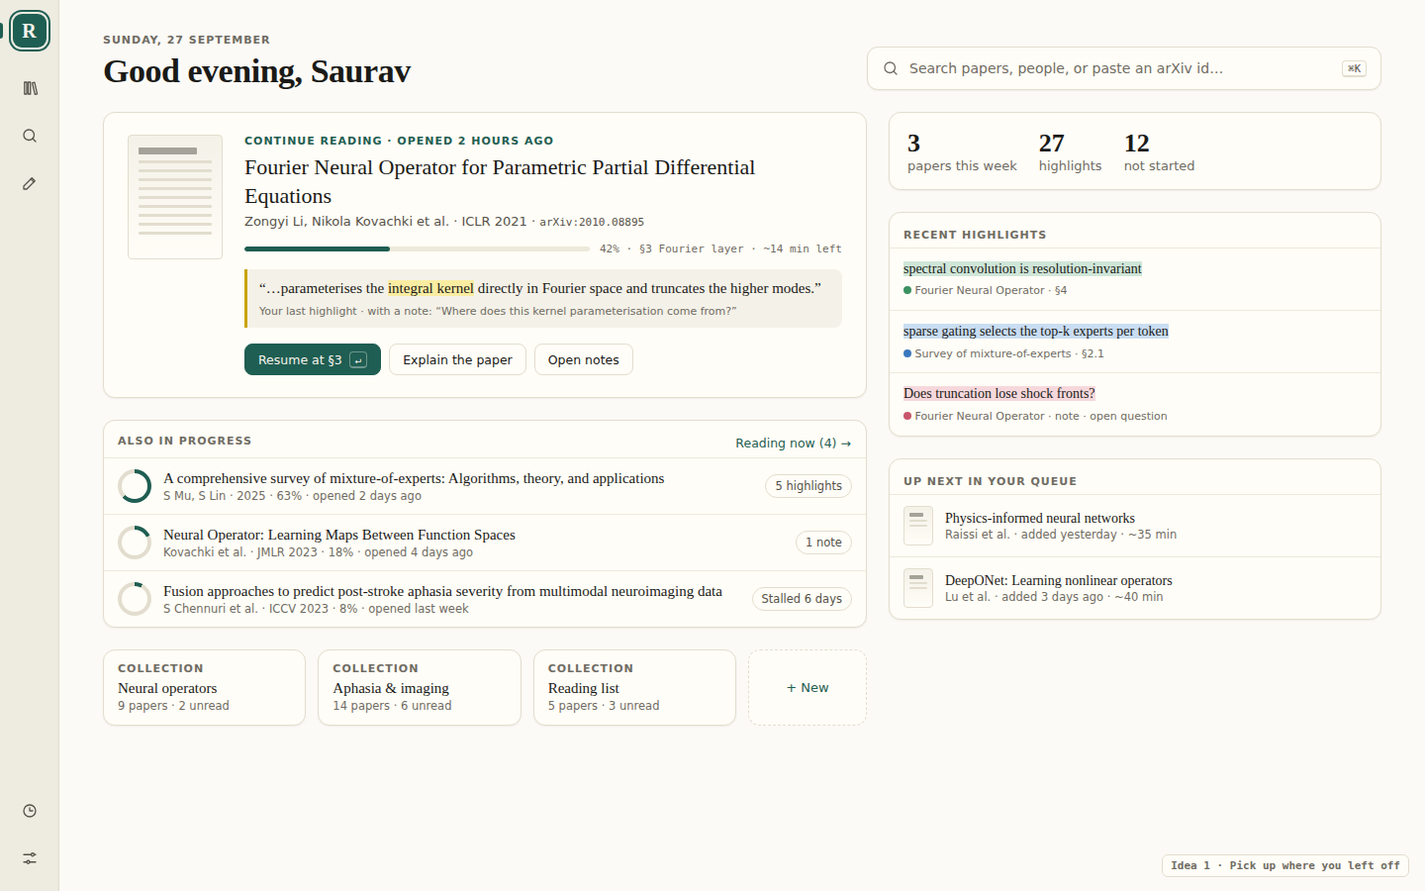
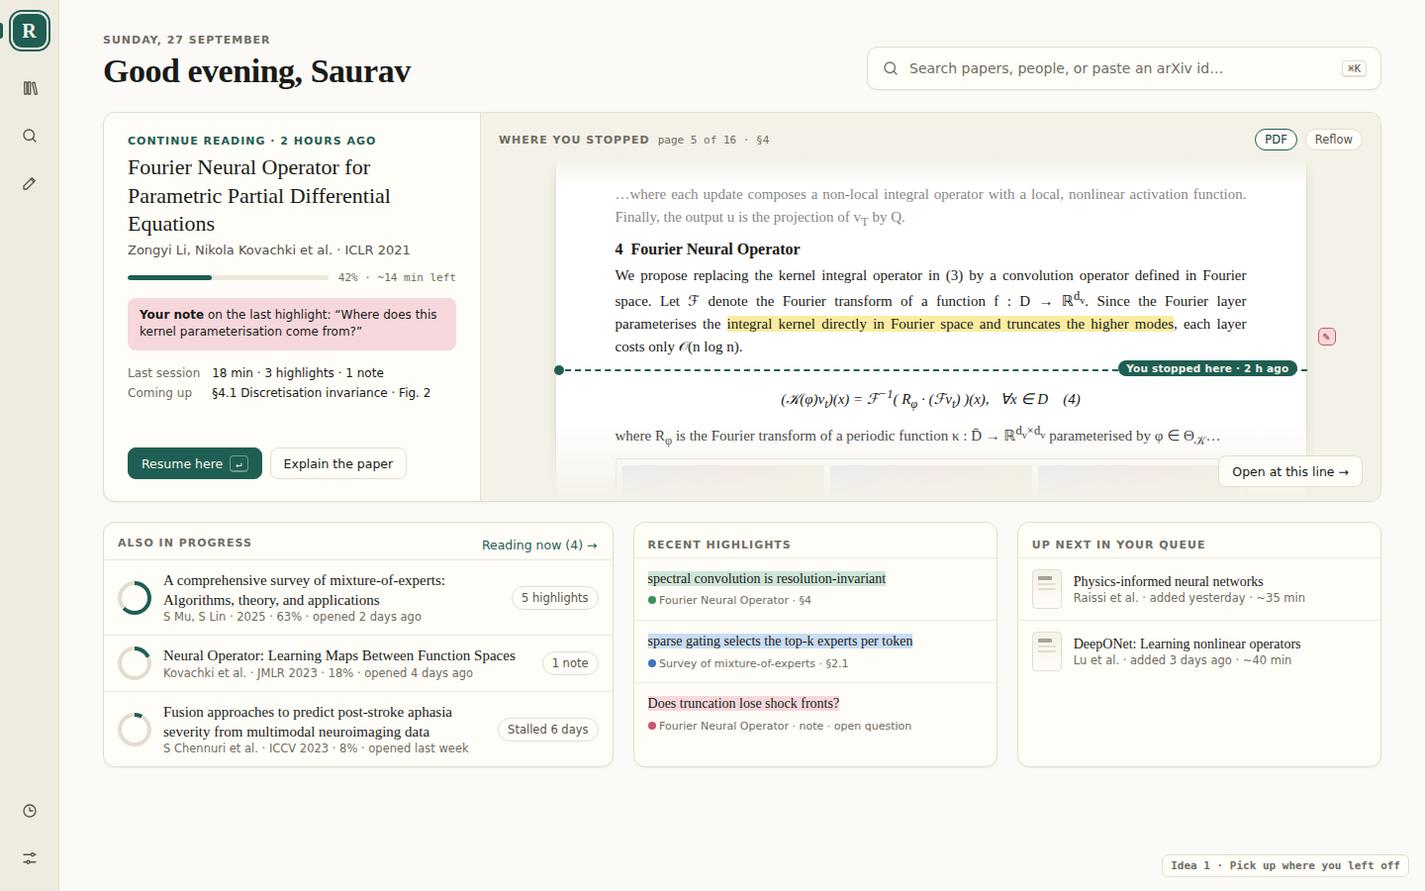
Landing ideas: show the page you stopped on in the continue-reading card
Home's first card now spans the page and previews the paper where it was
left — the real page, a "You stopped here" line, the last highlight and
its note — with how it would be built: a reading anchor, a snapshot on
leave, then a live pdf.js render.

Claude-Session: https://claude.ai/code/session_01GpdQYx1fE5DJU2tELgjumX

diff --git a/docs/mockups/landing-src/1b-continue-dark.html b/docs/mockups/landing-src/1b-continue-dark.html
@@ -1,9 +1,30 @@
 <!doctype html><html data-theme="dark"><head><meta charset="utf-8"><link rel="stylesheet" href="shared.css">
 <style>
-.grid{display:grid;grid-template-columns:1.55fr 1fr;gap:22px;margin-top:22px}
-.hero{padding:22px 24px;display:flex;gap:22px}
-.hero .cover{width:96px;height:126px;padding:12px 10px;gap:6px}
-.hero .cover i{height:3px}.hero .cover i:first-child{height:7px}
+.grid{display:grid;grid-template-columns:1.4fr 1fr 1fr;gap:20px;margin-top:22px}
+.hero{padding:0;display:grid;grid-template-columns:380px 1fr;overflow:hidden;grid-column:1/-1}
+.meta{padding:22px 24px;display:flex;flex-direction:column}
+.peek{position:relative;background:var(--panel);border-left:1px solid var(--border);padding:16px 18px 0;height:392px;overflow:hidden}
+.peek .bar-top{display:flex;align-items:center;gap:8px;margin-bottom:10px}
+.page{background:#fff;color:#1a1a17;border:1px solid var(--border);border-radius:3px 3px 0 0;box-shadow:0 2px 10px rgba(26,26,23,.10);padding:22px 60px;font-family:'Times New Roman',Times,var(--serif);font-size:15px;line-height:1.55;height:100%;position:relative;max-width:760px;margin:0 auto}
+.page h4{font:700 16px 'Times New Roman',Times,serif;margin:0 0 6px}
+.page p{margin:0 0 8px;text-align:justify;hyphens:auto}
+.page .eq{text-align:center;font-style:italic;margin:6px 0 8px}
+.page .fig{height:54px;border:1px solid #ddd;border-radius:2px;display:flex;gap:6px;padding:6px;margin:4px 0 8px}
+.page .fig i{flex:1;border-radius:2px;background:linear-gradient(135deg,#dbe8f3,#f3dfe4 45%,#e9f1dc)}
+.page .past{opacity:.55}
+.hlp{background:#faeda2}
+.stop{position:relative;margin:10px -61px 12px;height:0;border-top:2px dashed var(--accent)}
+.stop span{position:absolute;right:10px;top:-11px;background:var(--accent);color:var(--accent-on);font:600 10.5px var(--sans);padding:2px 8px;border-radius:999px;letter-spacing:.02em}
+.stop::before{content:'';position:absolute;left:-1px;top:-6px;width:10px;height:10px;border-radius:50%;background:var(--accent)}
+.pin{position:absolute;right:-30px;width:18px;height:18px;border-radius:5px;background:#f6d8dc;border:1px solid #c9566c;display:grid;place-items:center;font:600 10px var(--sans);color:#8f2f2f}
+.fade{position:absolute;left:0;right:0;bottom:0;height:80px;background:linear-gradient(transparent,var(--panel))}
+.fadetop{position:absolute;left:0;right:0;top:44px;height:30px;background:linear-gradient(var(--panel),transparent);z-index:1}
+.peek .open{position:absolute;right:18px;bottom:14px;z-index:2}
+:root[data-theme=dark] .page{background:#23252b;color:#dcd8ce;border-color:var(--border)}
+:root[data-theme=dark] .hlp{background:rgba(246,226,122,.3)}
+:root[data-theme=dark] .page .fig{border-color:#3a3d45}
+:root[data-theme=dark] .page .fig i{opacity:.35}
+.note{margin:14px 0 16px;padding:9px 12px;border-radius:8px;background:var(--hl-pink);font-size:12px;line-height:1.45}
 .snip{border-left:3px solid var(--ul-yellow);padding:8px 12px;margin:14px 0 16px;font-family:var(--serif);font-size:15px;line-height:1.5;background:var(--panel);border-radius:0 8px 8px 0}
 .row{display:flex;align-items:center;gap:12px;padding:11px 14px;border-top:1px solid var(--border-soft)}
 .row:first-child{border-top:0}
@@ -21,38 +42,43 @@
 </div>
 
 <div class="grid">
- <div style="display:flex;flex-direction:column;gap:22px">
   <section class="card hero">
-   <div class="cover"><i></i><i></i><i></i><i></i><i></i><i></i><i></i><i></i><i></i><i></i></div>
-   <div style="flex:1;min-width:0">
-    <div class="eyebrow" style="color:var(--accent)">Continue reading · opened 2 hours ago</div>
+   <div class="meta">
+    <div class="eyebrow" style="color:var(--accent)">Continue reading · 2 hours ago</div>
     <div class="ptitle" style="font-size:22px;margin-top:6px">Fourier Neural Operator for Parametric Partial Differential Equations</div>
-    <div class="ink2" style="margin-top:4px">Zongyi Li, Nikola Kovachki et al. · ICLR 2021 · <span class="mono">arXiv:2010.08895</span></div>
-    <div style="display:flex;align-items:center;gap:10px;margin-top:14px"><div class="bar" style="flex:1"><i style="width:42%"></i></div><span class="mono muted">42% · §3 Fourier layer · ~14 min left</span></div>
-    <div class="snip">“…parameterises the <span class="hl-y">integral kernel</span> directly in Fourier space and truncates the higher modes.”<div style="font-family:var(--sans);font-size:11px;color:var(--muted);margin-top:4px">Your last highlight · with a note: “Where does this kernel parameterisation come from?”</div></div>
-    <div style="display:flex;gap:8px"><span class="btn primary">Resume at §3 <kbd style="background:transparent;color:var(--accent-on);border-color:rgba(255,255,255,.35)">↵</kbd></span><span class="btn">Explain the paper</span><span class="btn">Open notes</span></div>
+    <div class="ink2" style="margin-top:4px">Zongyi Li, Nikola Kovachki et al. · ICLR 2021</div>
+    <div style="display:flex;align-items:center;gap:10px;margin-top:14px"><div class="bar" style="flex:1"><i style="width:42%"></i></div><span class="mono muted">42% · ~14 min left</span></div>
+    <div class="note"><b>Your note</b> on the last highlight: “Where does this kernel parameterisation come from?”</div>
+    <div style="display:grid;grid-template-columns:auto 1fr;gap:6px 12px;font-size:12px;margin-bottom:16px">
+     <span class="muted">Last session</span><span>18 min · 3 highlights · 1 note</span>
+     <span class="muted">Coming up</span><span>§4.1 Discretisation invariance · Fig. 2</span>
+    </div>
+    <div style="flex:1"></div>
+    <div style="display:flex;gap:8px;flex-wrap:wrap"><span class="btn primary">Resume here <kbd style="background:transparent;color:var(--accent-on);border-color:rgba(255,255,255,.35)">↵</kbd></span><span class="btn">Explain the paper</span></div>
+   </div>
+   <div class="peek">
+    <div class="bar-top"><span class="eyebrow">Where you stopped</span><span class="mono muted">page 5 of 16 · §4</span><span style="flex:1"></span><span class="chip" style="height:22px;background:var(--surface);color:var(--accent-ink);border-color:var(--accent)">PDF</span><span class="chip" style="height:22px">Reflow</span></div>
+    <div class="fadetop"></div>
+    <div class="page">
+     <p class="past">…where each update composes a non-local integral operator with a local, nonlinear activation function. Finally, the output u is the projection of v<sub>T</sub> by Q.</p>
+     <h4>4 &nbsp;Fourier Neural Operator</h4>
+     <p>We propose replacing the kernel integral operator in (3) by a convolution operator defined in Fourier space. Let ℱ denote the Fourier transform of a function f : D → ℝ<sup>d<sub>v</sub></sup>. Since the Fourier layer parameterises the <span class="hlp">integral kernel directly in Fourier space and truncates the higher modes</span>, each layer costs only 𝒪(n log n).<span class="pin" style="top:168px" title="your note">✎</span></p>
+     <div class="stop"><span>You stopped here · 2 h ago</span></div>
+     
+     
+     <div class="eq" style="margin-top:14px">(𝒦(φ)v<sub>t</sub>)(x) = ℱ<sup>−1</sup>( R<sub>φ</sub> · (ℱv<sub>t</sub>) )(x), &nbsp; ∀x ∈ D &nbsp;&nbsp;&nbsp;(4)</div>
+     <p>where R<sub>φ</sub> is the Fourier transform of a periodic function κ : D̄ → ℝ<sup>d<sub>v</sub>×d<sub>v</sub></sup> parameterised by φ ∈ Θ<sub>𝒦</sub>…</p>
+     <div class="fig"><i></i><i></i><i></i></div>
+    </div>
+    <div class="fade"></div>
+    <span class="btn open" style="background:var(--surface)">Open at this line →</span>
    </div>
   </section>
-
   <section class="card">
    <div style="display:flex;justify-content:space-between;padding:14px 14px 6px"><span class="eyebrow">Also in progress</span><span class="btn ghost" style="height:auto;padding:0">Reading now (4) →</span></div>
    <div class="row"><div class="ring" style="--p:.63"></div><div style="flex:1"><div class="ptitle">A comprehensive survey of mixture-of-experts: Algorithms, theory, and applications</div><div class="muted" style="font-size:11.5px">S Mu, S Lin · 2025 · 63% · opened 2 days ago</div></div><span class="chip">5 highlights</span></div>
    <div class="row"><div class="ring" style="--p:.18"></div><div style="flex:1"><div class="ptitle">Neural Operator: Learning Maps Between Function Spaces</div><div class="muted" style="font-size:11.5px">Kovachki et al. · JMLR 2023 · 18% · opened 4 days ago</div></div><span class="chip">1 note</span></div>
    <div class="row"><div class="ring" style="--p:.08"></div><div style="flex:1"><div class="ptitle">Fusion approaches to predict post-stroke aphasia severity from multimodal neuroimaging data</div><div class="muted" style="font-size:11.5px">S Chennuri et al. · ICCV 2023 · 8% · opened last week</div></div><span class="chip">Stalled 6 days</span></div>
-  </section>
-  <section style="display:flex;gap:12px">
-   <div class="card" style="flex:1;padding:12px 14px"><div class="eyebrow">Collection</div><div class="ptitle" style="margin-top:4px">Neural operators</div><div class="muted" style="font-size:11.5px">9 papers · 2 unread</div></div>
-   <div class="card" style="flex:1;padding:12px 14px"><div class="eyebrow">Collection</div><div class="ptitle" style="margin-top:4px">Aphasia &amp; imaging</div><div class="muted" style="font-size:11.5px">14 papers · 6 unread</div></div>
-   <div class="card" style="flex:1;padding:12px 14px"><div class="eyebrow">Collection</div><div class="ptitle" style="margin-top:4px">Reading list</div><div class="muted" style="font-size:11.5px">5 papers · 3 unread</div></div>
-   <div class="card" style="width:120px;padding:12px 14px;display:grid;place-items:center;color:var(--accent);border-style:dashed;box-shadow:none">+ New</div>
-  </section>
- </div>
-
- <div style="display:flex;flex-direction:column;gap:22px">
-  <section class="card" style="padding:16px 18px;display:flex;gap:22px">
-   <div class="stat"><b>3</b><span class="muted">papers this week</span></div>
-   <div class="stat"><b>27</b><span class="muted">highlights</span></div>
-   <div class="stat"><b>12</b><span class="muted">not started</span></div>
   </section>
   <section class="card">
    <div style="padding:14px 14px 6px"><span class="eyebrow">Recent highlights</span></div>
@@ -65,6 +91,5 @@
    <div class="row"><div class="cover" style="width:30px;height:40px"><i></i><i></i><i></i></div><div style="flex:1"><div class="ptitle" style="font-size:14px">Physics-informed neural networks</div><div class="muted" style="font-size:11.5px">Raissi et al. · added yesterday · ~35 min</div></div></div>
    <div class="row"><div class="cover" style="width:30px;height:40px"><i></i><i></i><i></i></div><div style="flex:1"><div class="ptitle" style="font-size:14px">DeepONet: Learning nonlinear operators</div><div class="muted" style="font-size:11.5px">Lu et al. · added 3 days ago · ~40 min</div></div></div>
   </section>
- </div>
 </div>
 </div></main></div><div class="label">Idea 1 · dark mode</div></body></html>

diff --git a/docs/mockups/landing-src/1-continue.html b/docs/mockups/landing-src/1-continue.html
@@ -1,9 +1,30 @@
 <!doctype html><html><head><meta charset="utf-8"><link rel="stylesheet" href="shared.css">
 <style>
-.grid{display:grid;grid-template-columns:1.55fr 1fr;gap:22px;margin-top:22px}
-.hero{padding:22px 24px;display:flex;gap:22px}
-.hero .cover{width:96px;height:126px;padding:12px 10px;gap:6px}
-.hero .cover i{height:3px}.hero .cover i:first-child{height:7px}
+.grid{display:grid;grid-template-columns:1.4fr 1fr 1fr;gap:20px;margin-top:22px}
+.hero{padding:0;display:grid;grid-template-columns:380px 1fr;overflow:hidden;grid-column:1/-1}
+.meta{padding:22px 24px;display:flex;flex-direction:column}
+.peek{position:relative;background:var(--panel);border-left:1px solid var(--border);padding:16px 18px 0;height:392px;overflow:hidden}
+.peek .bar-top{display:flex;align-items:center;gap:8px;margin-bottom:10px}
+.page{background:#fff;color:#1a1a17;border:1px solid var(--border);border-radius:3px 3px 0 0;box-shadow:0 2px 10px rgba(26,26,23,.10);padding:22px 60px;font-family:'Times New Roman',Times,var(--serif);font-size:15px;line-height:1.55;height:100%;position:relative;max-width:760px;margin:0 auto}
+.page h4{font:700 16px 'Times New Roman',Times,serif;margin:0 0 6px}
+.page p{margin:0 0 8px;text-align:justify;hyphens:auto}
+.page .eq{text-align:center;font-style:italic;margin:6px 0 8px}
+.page .fig{height:54px;border:1px solid #ddd;border-radius:2px;display:flex;gap:6px;padding:6px;margin:4px 0 8px}
+.page .fig i{flex:1;border-radius:2px;background:linear-gradient(135deg,#dbe8f3,#f3dfe4 45%,#e9f1dc)}
+.page .past{opacity:.55}
+.hlp{background:#faeda2}
+.stop{position:relative;margin:10px -61px 12px;height:0;border-top:2px dashed var(--accent)}
+.stop span{position:absolute;right:10px;top:-11px;background:var(--accent);color:var(--accent-on);font:600 10.5px var(--sans);padding:2px 8px;border-radius:999px;letter-spacing:.02em}
+.stop::before{content:'';position:absolute;left:-1px;top:-6px;width:10px;height:10px;border-radius:50%;background:var(--accent)}
+.pin{position:absolute;right:-30px;width:18px;height:18px;border-radius:5px;background:#f6d8dc;border:1px solid #c9566c;display:grid;place-items:center;font:600 10px var(--sans);color:#8f2f2f}
+.fade{position:absolute;left:0;right:0;bottom:0;height:80px;background:linear-gradient(transparent,var(--panel))}
+.fadetop{position:absolute;left:0;right:0;top:44px;height:30px;background:linear-gradient(var(--panel),transparent);z-index:1}
+.peek .open{position:absolute;right:18px;bottom:14px;z-index:2}
+:root[data-theme=dark] .page{background:#23252b;color:#dcd8ce;border-color:var(--border)}
+:root[data-theme=dark] .hlp{background:rgba(246,226,122,.3)}
+:root[data-theme=dark] .page .fig{border-color:#3a3d45}
+:root[data-theme=dark] .page .fig i{opacity:.35}
+.note{margin:14px 0 16px;padding:9px 12px;border-radius:8px;background:var(--hl-pink);font-size:12px;line-height:1.45}
 .snip{border-left:3px solid var(--ul-yellow);padding:8px 12px;margin:14px 0 16px;font-family:var(--serif);font-size:15px;line-height:1.5;background:var(--panel);border-radius:0 8px 8px 0}
 .row{display:flex;align-items:center;gap:12px;padding:11px 14px;border-top:1px solid var(--border-soft)}
 .row:first-child{border-top:0}
@@ -21,38 +42,43 @@
 </div>
 
 <div class="grid">
- <div style="display:flex;flex-direction:column;gap:22px">
   <section class="card hero">
-   <div class="cover"><i></i><i></i><i></i><i></i><i></i><i></i><i></i><i></i><i></i><i></i></div>
-   <div style="flex:1;min-width:0">
-    <div class="eyebrow" style="color:var(--accent)">Continue reading · opened 2 hours ago</div>
+   <div class="meta">
+    <div class="eyebrow" style="color:var(--accent)">Continue reading · 2 hours ago</div>
     <div class="ptitle" style="font-size:22px;margin-top:6px">Fourier Neural Operator for Parametric Partial Differential Equations</div>
-    <div class="ink2" style="margin-top:4px">Zongyi Li, Nikola Kovachki et al. · ICLR 2021 · <span class="mono">arXiv:2010.08895</span></div>
-    <div style="display:flex;align-items:center;gap:10px;margin-top:14px"><div class="bar" style="flex:1"><i style="width:42%"></i></div><span class="mono muted">42% · §3 Fourier layer · ~14 min left</span></div>
-    <div class="snip">“…parameterises the <span class="hl-y">integral kernel</span> directly in Fourier space and truncates the higher modes.”<div style="font-family:var(--sans);font-size:11px;color:var(--muted);margin-top:4px">Your last highlight · with a note: “Where does this kernel parameterisation come from?”</div></div>
-    <div style="display:flex;gap:8px"><span class="btn primary">Resume at §3 <kbd style="background:transparent;color:var(--accent-on);border-color:rgba(255,255,255,.35)">↵</kbd></span><span class="btn">Explain the paper</span><span class="btn">Open notes</span></div>
+    <div class="ink2" style="margin-top:4px">Zongyi Li, Nikola Kovachki et al. · ICLR 2021</div>
+    <div style="display:flex;align-items:center;gap:10px;margin-top:14px"><div class="bar" style="flex:1"><i style="width:42%"></i></div><span class="mono muted">42% · ~14 min left</span></div>
+    <div class="note"><b>Your note</b> on the last highlight: “Where does this kernel parameterisation come from?”</div>
+    <div style="display:grid;grid-template-columns:auto 1fr;gap:6px 12px;font-size:12px;margin-bottom:16px">
+     <span class="muted">Last session</span><span>18 min · 3 highlights · 1 note</span>
+     <span class="muted">Coming up</span><span>§4.1 Discretisation invariance · Fig. 2</span>
+    </div>
+    <div style="flex:1"></div>
+    <div style="display:flex;gap:8px;flex-wrap:wrap"><span class="btn primary">Resume here <kbd style="background:transparent;color:var(--accent-on);border-color:rgba(255,255,255,.35)">↵</kbd></span><span class="btn">Explain the paper</span></div>
+   </div>
+   <div class="peek">
+    <div class="bar-top"><span class="eyebrow">Where you stopped</span><span class="mono muted">page 5 of 16 · §4</span><span style="flex:1"></span><span class="chip" style="height:22px;background:var(--surface);color:var(--accent-ink);border-color:var(--accent)">PDF</span><span class="chip" style="height:22px">Reflow</span></div>
+    <div class="fadetop"></div>
+    <div class="page">
+     <p class="past">…where each update composes a non-local integral operator with a local, nonlinear activation function. Finally, the output u is the projection of v<sub>T</sub> by Q.</p>
+     <h4>4 &nbsp;Fourier Neural Operator</h4>
+     <p>We propose replacing the kernel integral operator in (3) by a convolution operator defined in Fourier space. Let ℱ denote the Fourier transform of a function f : D → ℝ<sup>d<sub>v</sub></sup>. Since the Fourier layer parameterises the <span class="hlp">integral kernel directly in Fourier space and truncates the higher modes</span>, each layer costs only 𝒪(n log n).<span class="pin" style="top:168px" title="your note">✎</span></p>
+     <div class="stop"><span>You stopped here · 2 h ago</span></div>
+     
+     
+     <div class="eq" style="margin-top:14px">(𝒦(φ)v<sub>t</sub>)(x) = ℱ<sup>−1</sup>( R<sub>φ</sub> · (ℱv<sub>t</sub>) )(x), &nbsp; ∀x ∈ D &nbsp;&nbsp;&nbsp;(4)</div>
+     <p>where R<sub>φ</sub> is the Fourier transform of a periodic function κ : D̄ → ℝ<sup>d<sub>v</sub>×d<sub>v</sub></sup> parameterised by φ ∈ Θ<sub>𝒦</sub>…</p>
+     <div class="fig"><i></i><i></i><i></i></div>
+    </div>
+    <div class="fade"></div>
+    <span class="btn open" style="background:var(--surface)">Open at this line →</span>
    </div>
   </section>
-
   <section class="card">
    <div style="display:flex;justify-content:space-between;padding:14px 14px 6px"><span class="eyebrow">Also in progress</span><span class="btn ghost" style="height:auto;padding:0">Reading now (4) →</span></div>
    <div class="row"><div class="ring" style="--p:.63"></div><div style="flex:1"><div class="ptitle">A comprehensive survey of mixture-of-experts: Algorithms, theory, and applications</div><div class="muted" style="font-size:11.5px">S Mu, S Lin · 2025 · 63% · opened 2 days ago</div></div><span class="chip">5 highlights</span></div>
    <div class="row"><div class="ring" style="--p:.18"></div><div style="flex:1"><div class="ptitle">Neural Operator: Learning Maps Between Function Spaces</div><div class="muted" style="font-size:11.5px">Kovachki et al. · JMLR 2023 · 18% · opened 4 days ago</div></div><span class="chip">1 note</span></div>
    <div class="row"><div class="ring" style="--p:.08"></div><div style="flex:1"><div class="ptitle">Fusion approaches to predict post-stroke aphasia severity from multimodal neuroimaging data</div><div class="muted" style="font-size:11.5px">S Chennuri et al. · ICCV 2023 · 8% · opened last week</div></div><span class="chip">Stalled 6 days</span></div>
-  </section>
-  <section style="display:flex;gap:12px">
-   <div class="card" style="flex:1;padding:12px 14px"><div class="eyebrow">Collection</div><div class="ptitle" style="margin-top:4px">Neural operators</div><div class="muted" style="font-size:11.5px">9 papers · 2 unread</div></div>
-   <div class="card" style="flex:1;padding:12px 14px"><div class="eyebrow">Collection</div><div class="ptitle" style="margin-top:4px">Aphasia &amp; imaging</div><div class="muted" style="font-size:11.5px">14 papers · 6 unread</div></div>
-   <div class="card" style="flex:1;padding:12px 14px"><div class="eyebrow">Collection</div><div class="ptitle" style="margin-top:4px">Reading list</div><div class="muted" style="font-size:11.5px">5 papers · 3 unread</div></div>
-   <div class="card" style="width:120px;padding:12px 14px;display:grid;place-items:center;color:var(--accent);border-style:dashed;box-shadow:none">+ New</div>
-  </section>
- </div>
-
- <div style="display:flex;flex-direction:column;gap:22px">
-  <section class="card" style="padding:16px 18px;display:flex;gap:22px">
-   <div class="stat"><b>3</b><span class="muted">papers this week</span></div>
-   <div class="stat"><b>27</b><span class="muted">highlights</span></div>
-   <div class="stat"><b>12</b><span class="muted">not started</span></div>
   </section>
   <section class="card">
    <div style="padding:14px 14px 6px"><span class="eyebrow">Recent highlights</span></div>
@@ -65,6 +91,5 @@
    <div class="row"><div class="cover" style="width:30px;height:40px"><i></i><i></i><i></i></div><div style="flex:1"><div class="ptitle" style="font-size:14px">Physics-informed neural networks</div><div class="muted" style="font-size:11.5px">Raissi et al. · added yesterday · ~35 min</div></div></div>
    <div class="row"><div class="cover" style="width:30px;height:40px"><i></i><i></i><i></i></div><div style="flex:1"><div class="ptitle" style="font-size:14px">DeepONet: Learning nonlinear operators</div><div class="muted" style="font-size:11.5px">Lu et al. · added 3 days ago · ~40 min</div></div></div>
   </section>
- </div>
 </div>
 </div></main></div><div class="label">Idea 1 · Pick up where you left off</div></body></html>

diff --git a/docs/landing-ideas.md b/docs/landing-ideas.md
@@ -18,24 +18,51 @@ and are re-rendered with `node docs/mockups/landing-src/render.mjs`.
 
 ## 1. Pick up where you left off
 
-![Home: continue-reading hero, other papers in progress, recent highlights, queue](mockups/landing-1-continue.png)
+![Home: a full-width continue-reading card showing the actual page of the paper where you stopped, with a "You stopped here" line, your highlight and note pin; below it papers in progress, recent highlights and the queue](mockups/landing-1-continue.png)
 
-The paper you last opened is the hero. It shows its progress, the section
-you stopped in, and your last highlight and note, so you remember *why* you
-stopped. **Resume** (or just <kbd>↵</kbd>) opens the paper at that spot.
-Around it:
+The paper you last opened fills the top of Home, and **the page you stopped
+on is shown right there**. It's the real page, in the mode you left it in
+(PDF or Reflow), scrolled so a dashed **"You stopped here"** line sits in
+the middle of the view, with the lines you'd already read dimmed above it.
+Your last highlight is visible in context, with a pin for its note. Reading
+two or three lines is usually enough to remember where you were, before you
+even open the paper.
 
-- the other papers in progress, flagged when one has **stalled** for days
-- your collections as tiles
-- a small weekly tally
-- recent highlights
-- the next unread papers, with a rough reading time
+- **Resume here** (<kbd>↵</kbd>) or **Open at this line** opens the paper at
+  exactly that line.
+- The left of the card shows the progress, the note on your last highlight,
+  what the last session added (18 min, 3 highlights, 1 note), and what's
+  coming next (§4.1, Fig. 2).
+- Below the card are the other papers in progress (flagged when one has
+  **stalled** for days), recent highlights, and the next unread papers with a
+  rough reading time.
 
 **Why:** it takes the most common action ("carry on") from about four
-clicks down to one keystroke.
-**Cost:** low. `progress`, `lastOpenedAt`, highlights, notes and collections
-all exist already. The only new parts are "section at progress" and "reading
-time", which the PDF outline and word count can give.
+clicks down to one keystroke. The page preview also means you don't have to
+re-read the page just to find your place.
+
+**How the page preview would work:** today the app saves only `progress` (a
+0–1 scroll fraction). It would also need to save the **top visible line** as
+a text anchor, the same quote-plus-neighbours scheme `lib/anchor.ts` already
+uses for highlights, so it lands on the same spot in PDF and Reflow and
+survives a new arXiv version. Two ways to draw the preview:
+
+1. **Snapshot on leave (cheap, instant).** When you close a paper or switch
+   away, grab a ~900×400 crop of the viewport around the anchor (the PDF
+   canvas, or the Reflow DOM), store it as a small WebP beside the paper in
+   IndexedDB, and show it on Home. It's zero work at load time and works
+   offline.
+2. **Live render (sharper, selectable).** Open the cached PDF with pdf.js,
+   render just that page, and scroll it to the anchor; for Reflow, render
+   the few paragraphs around the anchor. This is more work on load, but the
+   text is real and the highlights are current.
+
+The best option is to start with the snapshot and swap in the live render
+once it's ready.
+
+**Cost:** low to medium. `progress`, `lastOpenedAt`, highlights, notes and
+text anchoring all exist already. The new parts are saving the reading
+anchor, the snapshot, and "section at this line" (from the PDF outline).
 
 Dark mode, for reference:
 
